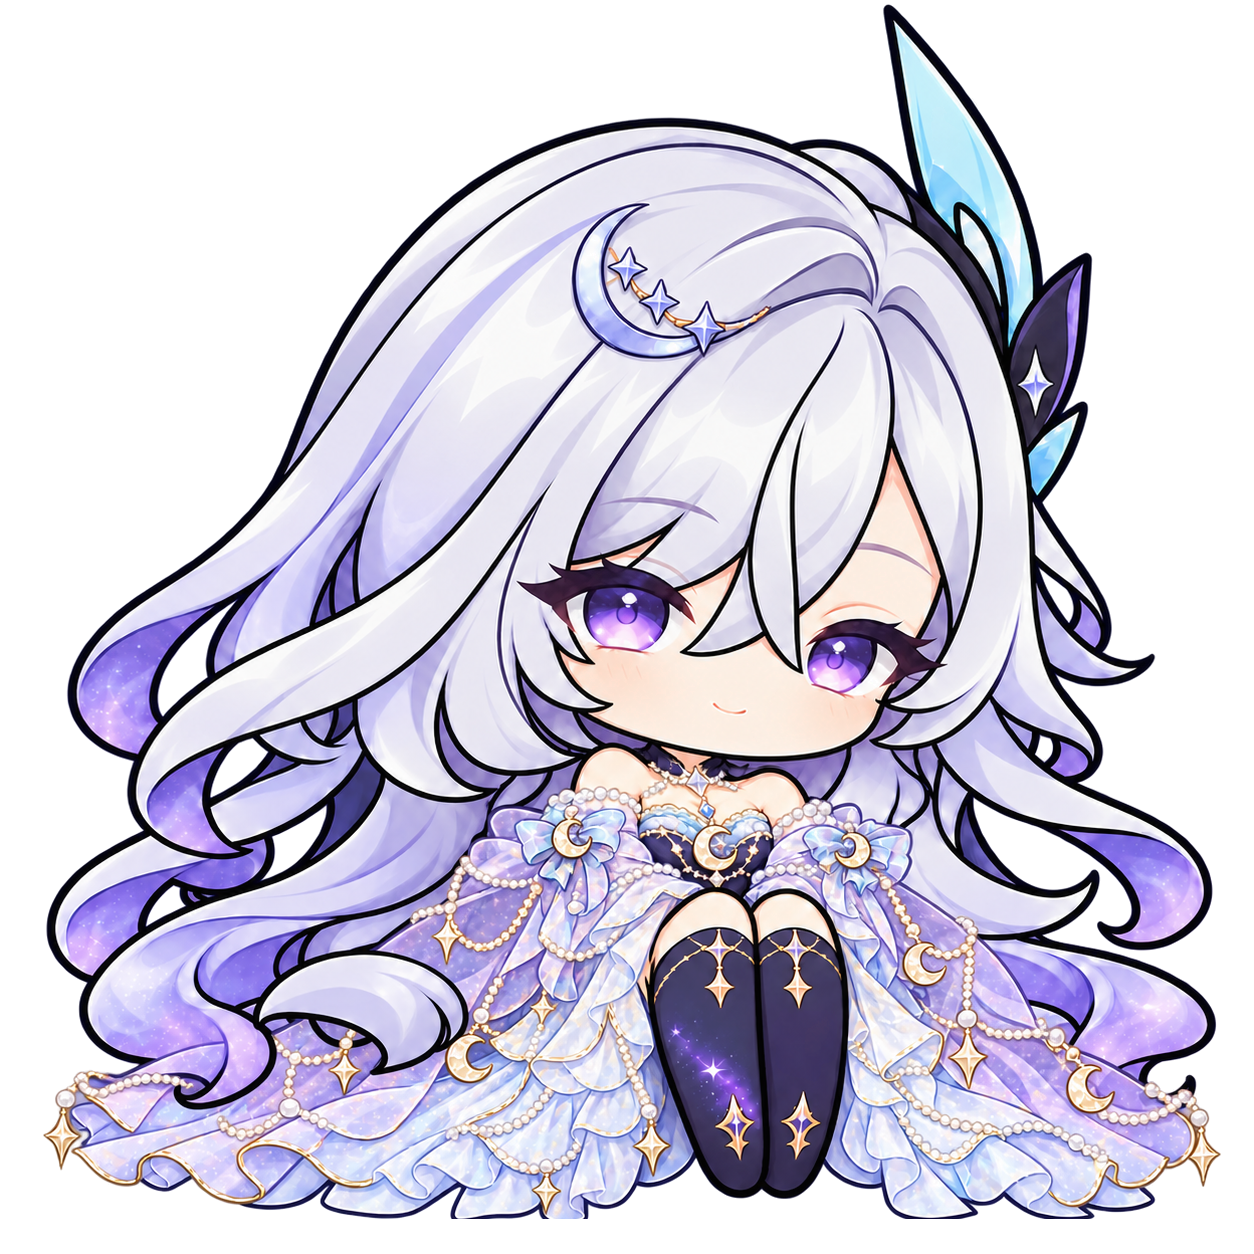
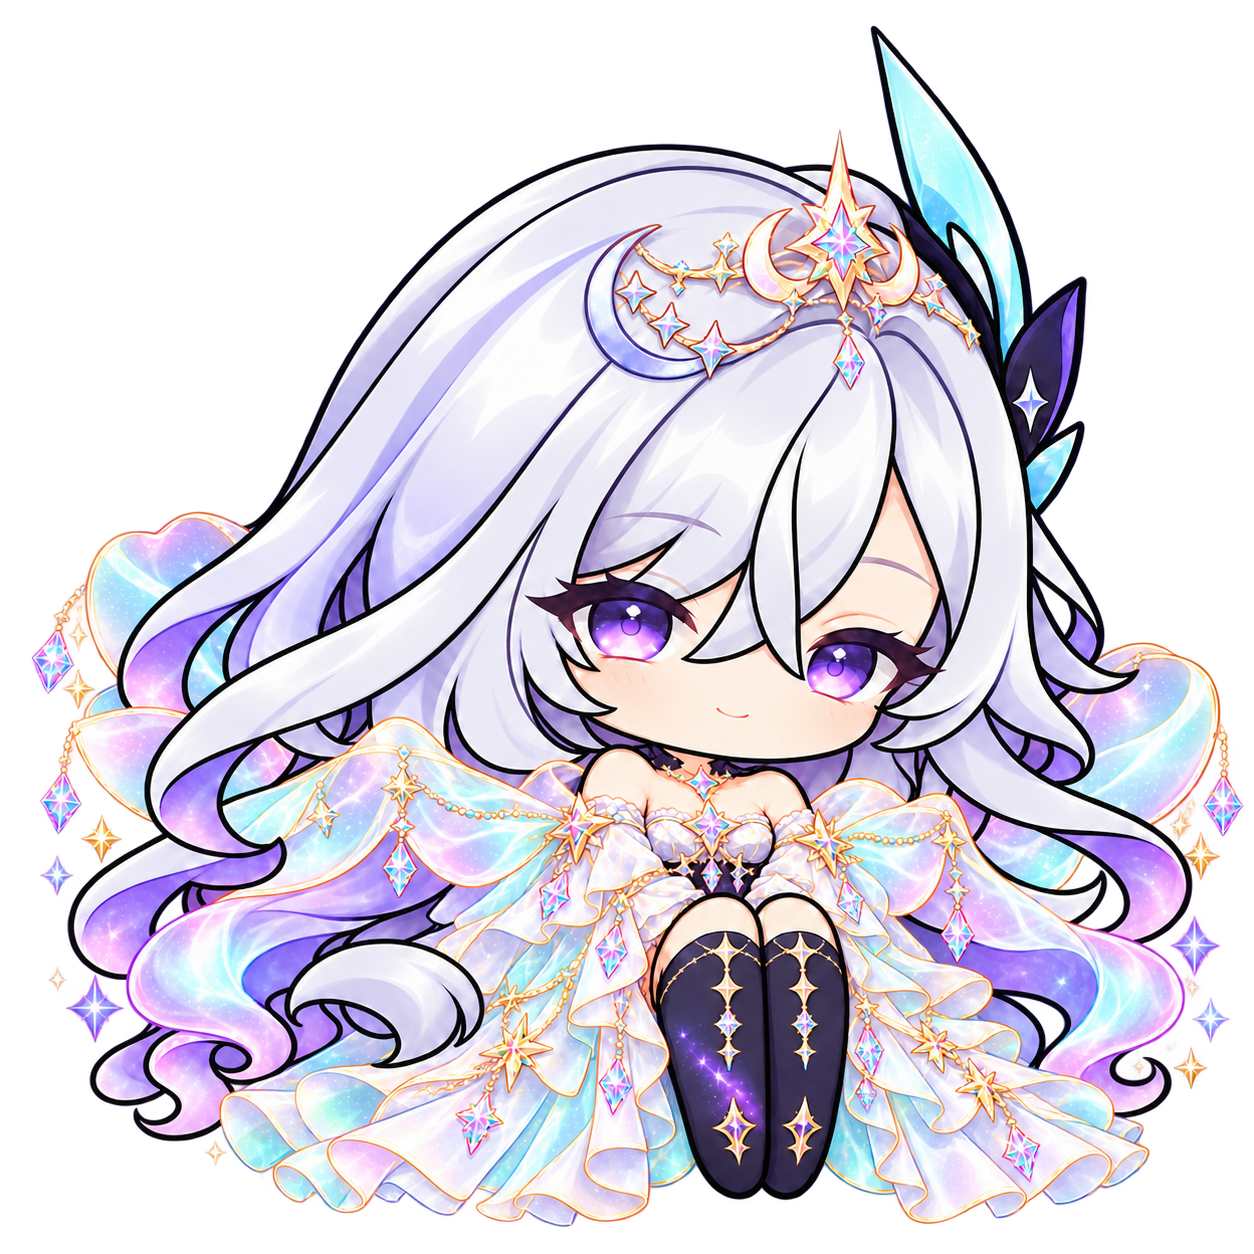
art: extend Starsea gown redraw to 40 of 110 frames
Add all five idle blinks, both celebrations and lifted poses, and finish remaining idle frames. Keep rare-tier silhouettes distinct and record PNG QA plus a repaired cloth-edge artifact. Step 1 remains in progress with 70 frames outstanding; no step 2 or publishing.

diff --git a/HANDOFF.md b/HANDOFF.md
@@ -1,6 +1,8 @@
 # Current Progress
-- **2026-10-12 STARSEA GOWN STEP 1 INCOMPLETE — IMAGE GENERATION QUOTA BLOCKED.** New user assignment supersedes the historical V1.5 art restriction for this isolated art task. Worktree `D:\Documents\ChatGPT\petoken-outfits-starsea-gown`, branch `codex/outfits-starsea-gown`, base `ad44b23`; Claude's checkout/branch unchanged. No code edits, step 2, merge or push.
-- Completed 18/110 requested sprite redraws: `assets/v2_5/outfits/starsea_gown/{fanxing,mingyue,haori}/idle_{1,2,3,4}.png` and `{yinhe,xinghai}/idle_{1,2,3}.png`. Added root `STARSEA_GOWN_PREVIEW.png`: five tiers in order fanxing, mingyue, haori, yinhe, xinghai, same idle_1 pose, large and 80px comparisons, no labels. Remaining 92 sprites and the five existing per-tier PREVIEW.png files retain baseline artwork. This partial mixed set is NOT a completed/accepted step 1.
+- IN PROGRESS: 40/110 generated and inspected; next redraw headpat_1/headpat_2 in all five tiers. Step 1 only; no paid API or push.
+- Resume milestone 2026-10-12: built-in quota recovered; added 22 sprites: yinhe/xinghai idle_4 plus all five tiers' idle_blink, celebrate_1, celebrate_2 and dragged_1. All tiers now have eight new frames (40/110); 70 requested frames remain. Idle blink, celebration and lifted-pose sheets viewed. All 40 decode at 1254x1254 RGBA with alpha 0..255 and unique SHA256s; corners are alpha 0 except one visually imperceptible alpha=1 pixel in xinghai/dragged_1. Its initial visible outer-cloth edge was regenerated; visible bbox now (47,12,1222,1230), inside canvas. Initial strict zero-corner QA failure and this generator residue are explicitly retained here; no opaque backdrop was introduced. Exact pixel registration/unchanged non-eye pixels and native animation acceptance remain unverified.
+- **2026-10-12 STARSEA GOWN STEP 1 IN PROGRESS — BUILT-IN GENERATION RESUMED.** New user assignment supersedes the historical V1.5 art restriction for this isolated art task. Worktree `D:\Documents\ChatGPT\petoken-outfits-starsea-gown`, branch `codex/outfits-starsea-gown`, base `ad44b23`; Claude's checkout/branch unchanged. No code edits, step 2, merge or push.
+- Prior checkpoint completed 18/110 requested sprite redraws: `assets/v2_5/outfits/starsea_gown/{fanxing,mingyue,haori}/idle_{1,2,3,4}.png` and `{yinhe,xinghai}/idle_{1,2,3}.png`. Added root `STARSEA_GOWN_PREVIEW.png`: five tiers in order fanxing, mingyue, haori, yinhe, xinghai, same idle_1 pose, large and 80px comparisons, no labels. Remaining 92 sprites and the five existing per-tier PREVIEW.png files retain baseline artwork. This partial mixed set is NOT a completed/accepted step 1.
 - Used built-in imagegen, one generation per sprite, original pose plus a generated tier costume reference; no external art/code reused or added dependency. Tier directions: matte gray-blue single cloth/no jewelry/no glow; pearl-silver two layers/crescent; warm ivory/champagne-gold embroidery/short cape/sun brooch; midnight-navy star patterns/platinum/long cyan-edged gauze; bright mint/rose aurora panels/large winglike stole/star crown/particles. Preserve silver-lavender hair, violet eyes, natural side feather and seated pose identity. Higher-tier master edge-clearance corrections were generated before the subsequent frames.
 - Verification: all 18 delivered sprites decode at 1254x1254 RGBA, alpha extrema 0/255, four corner pixels transparent, 18 unique SHA256 hashes, no visible top-edge clipping at alpha >32; all 18 visually inspected as a four-frame/five-tier contact sheet, preview also viewed at large/80px scale. `git diff --check` passed. Exact pixel registration, full animation/blink continuity and native wardrobe integration remain unverified; do not claim them accepted.
 - Blocking error: built-in imagegen returned HTTP 429 `usage_limit_reached` for yinhe/idle_4 and xinghai/idle_4. Error reset timestamp 1791837933 = 2026-10-12 16:45:33 America/Toronto. User explicitly selected WAIT FOR BUILT-IN QUOTA RECOVERY on 2026-10-12; paid API fallback is not authorized. Retain art checkpoint `4d40a71` and resume the remaining 92 sprites after recovery. This session has no available automation/thread-wakeup tool; a user continuation message is needed to restart work after the turn ends.
@@ -96,7 +98,7 @@
 - Explicit Git allowlists. Current authorization permits GitHub main/tag/release as v1.3.0; APP_VERSION is promoted to1.3.0. Preserve local stable installation and unrelated .autopilot. Existing public repository and fast-forward history are retained.
 
 # Next Steps
-- [ ] (Starsea gown, highest priority) After built-in quota recovery or explicit API fallback authorization, redraw `yinhe/idle_4.png` and `xinghai/idle_4.png`, then every tier's `idle_blink`, `celebrate_1`, `celebrate_2`, `dragged_1`, `headpat_1`, `headpat_2`, `poked_1`, `sad_1`, `sad_blink`, `sleep_1`, `sleep_2`, `thinking_1`, `thinking_2`, `typing_1`, `typing_2`, `typing_3`, `wave_1`, `wave_2` (92 outstanding total). Blink variants must only close eyes on the corresponding new base frame. Check alignment/continuity and rarity differences, regenerate preview if masters change, then commit the COMPLETED step 1 locally and report its hash. Do not push. Step 2 requires the user's acceptance of completed step 1.
+- [ ] (Starsea gown, highest priority) Continue built-in generation for every tier's `headpat_1`, `headpat_2`, `poked_1`, `sad_1`, `sad_blink`, `sleep_1`, `sleep_2`, `thinking_1`, `thinking_2`, `typing_1`, `typing_2`, `typing_3`, `wave_1`, `wave_2` (70 outstanding total). Blink variants must only close eyes on the corresponding new base frame. Check alignment/continuity and rarity differences, regenerate preview if masters change, then commit the COMPLETED step 1 locally and report its hash. Do not push or switch to paid API. Step 2 requires the user's acceptance of completed step 1.
 - [x] Human accepted V1.4; Codex V1.4 work ended.
 - [ ] Await next user assignment after V1.5 Codex-only local commit/report; user forwards shared compatibility UI and historical resize-test requirements to Claude.
 - Claude owns V1.5 shared integration/build/merge; human owns acceptance. Codex must not expand file scope, cross-review, merge, push, tag or publish.
@@ -111,7 +113,7 @@
 - No required release work remains; future changes need a new task. Local stable installation is not replaced.
 
 # Open Issues
-- Starsea gown step 1 remains incomplete at 18/110 because imagegen quota is exhausted. The branch currently mixes new idle frames and old actions; runtime use would show the old costume on missing frames. Exact registration/continuity/native integration not accepted; complete and verify them before declaring step 1 done. User chose to wait for built-in quota recovery; do not switch to paid API. No automatic wakeup is configured/available in this session.
+- Starsea gown step 1 remains incomplete at 40/110; generation resumed after quota recovery. The branch mixes new and old action art until the remaining 70 frames are redrawn. Exact registration/continuity/native integration not accepted; complete and verify them before declaring step 1 done. User chose built-in generation only; do not switch to paid API. No automatic wakeup is configured/available in this session.
 - Current V1.4 fixed Hub/artwork palette/project rows plus retained portrait/pager/checkbox/selection have bounded native/source and root frozen/package PASS. Fixed440x720 Hub cannot guarantee containment on smaller workareas. Human palette preference/beginner comprehension/daily usability/otherDPI and separate release approval remain pending. Synchronous locked saves take~289–311ms under the reviewed fault; local note data is plain text as documented.
 - Historical v1.3.0 candidate appearance/visual QA was accepted by the user; new V1.4 workbench human QA is pending. This does not establish exhaustive multi-monitor/fractional-DPI/tiny-workarea or physical activity detection coverage; no universal-device claim.
 - Current safe ring has up to8hits per page;24/64task universes are tested and production is not truncated to64. Whole composition requires enough workarea for body plus fixed hit footprints; impossible tiny workareas retain decoration without containment guarantee. Detail overlap/appearance remain human judgment. Synthetic poses prove rendering, not live physical keyboard/microphone/media detection.
